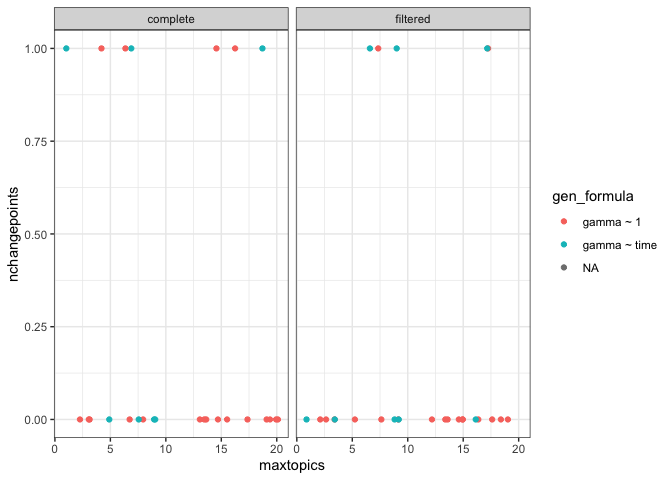
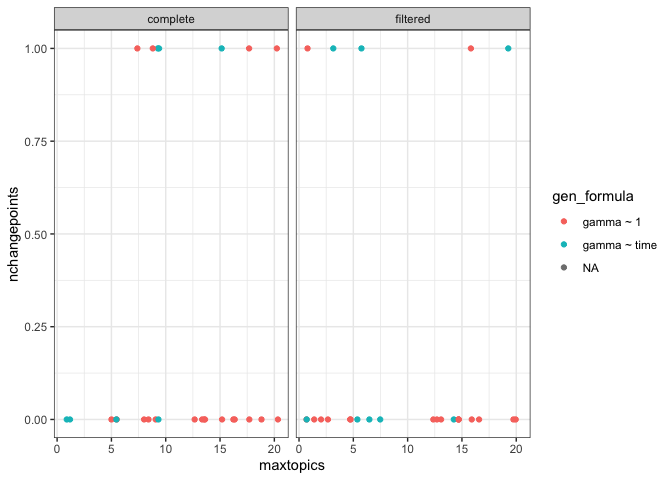
16

diff --git a/analysis/reports/ts_report.md b/analysis/reports/ts_report.md
@@ -89,6 +89,23 @@ plot(ts_select_ts_bbs_data_rtrg_1_11_lda_select_lda_bbs_data_rtrg_1_11_5)
 ![](ts_report_files/figure-markdown_github/ncpts-3.png)
 
 ``` r
+lda_select_lda_bbs_data_rtrg_1_11_16 <- readd(lda_select_lda_bbs_data_rtrg_1_11_16, cache = cache)
+plot(lda_select_lda_bbs_data_rtrg_1_11_16)
+```
+
+![](ts_report_files/figure-markdown_github/ncpts-4.png)
+
+    ## $`k: 12, seed: 4`
+    ## NULL
+
+``` r
+ts_select_ts_bbs_data_rtrg_1_11_lda_select_lda_bbs_data_rtrg_1_11_16 <- readd(ts_select_ts_bbs_data_rtrg_1_11_lda_select_lda_bbs_data_rtrg_1_11_16, cache = cache)
+plot(ts_select_ts_bbs_data_rtrg_1_11_lda_select_lda_bbs_data_rtrg_1_11_16)
+```
+
+![](ts_report_files/figure-markdown_github/ncpts-5.png)
+
+``` r
 # lda_ts_result_summary$data_name <- vapply(lda_ts_result_summary$ts_name,
 #                                           get_data_names,
 #                                           FUN.VALUE = "maizuru_data")
